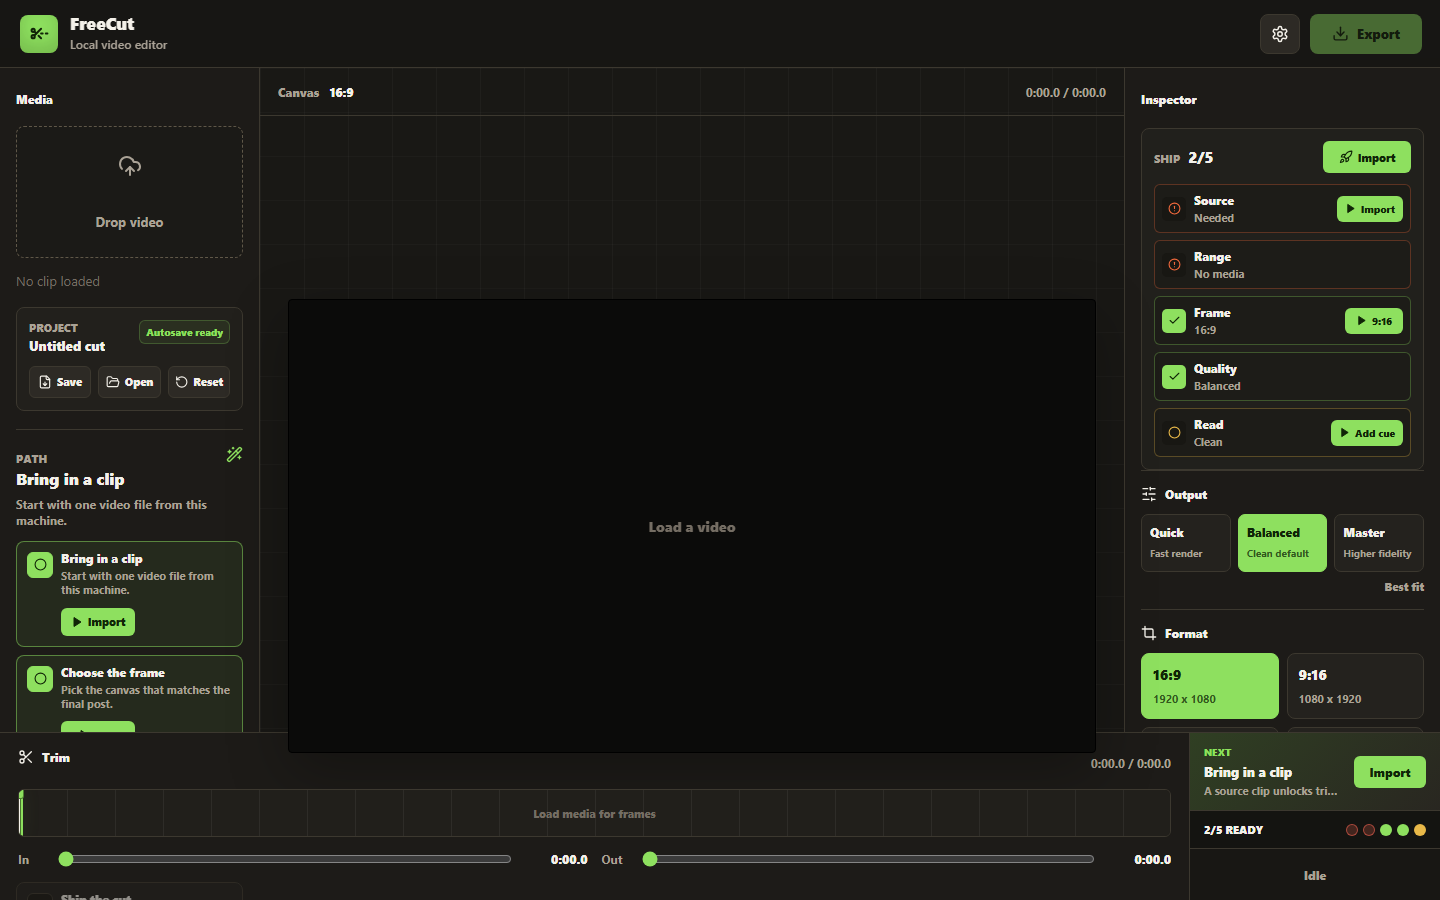
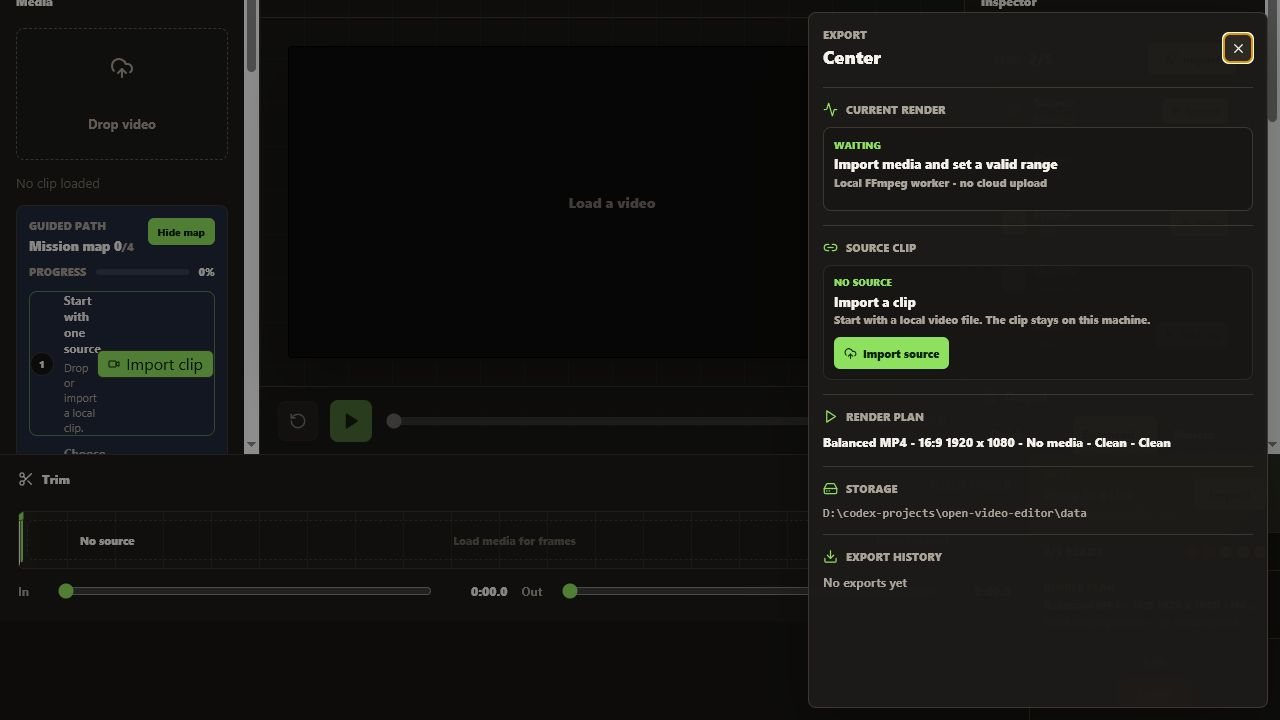
polish: tighten export center accessibility

diff --git a/src/App.tsx b/src/App.tsx
@@ -464,6 +464,13 @@ function App() {
     }
   };
 
+  const handleRejectMediaFile = (rejectedFile: File) => {
+    setProjectStatus('Import failed');
+    setExportState('error');
+    setExportProgress(0);
+    setExportMessage(`Unsupported file - choose a video file to import. ${rejectedFile.name} was not loaded.`);
+  };
+
   const handleLoadedMetadata = () => {
     const nextDuration = videoRef.current?.duration ?? 0;
     const pendingRange = pendingProjectRangeRef.current;
@@ -977,7 +984,7 @@ function App() {
       } else {
         const message = error instanceof Error ? error.message : 'Export failed';
         setExportState('error');
-        setExportMessage(message.startsWith('Export') ? message : `Export failed - ${message}`);
+        setExportMessage(formatExportError(message));
       }
     } finally {
       exportInFlightRef.current = false;
@@ -1010,6 +1017,11 @@ function App() {
     if (job.status === 'complete') return 'Export ready';
     if (job.status === 'canceled') return 'Export canceled';
     return job.error ? `Export failed - ${job.error}` : 'Export failed';
+  };
+
+  const formatExportError = (message: string) => {
+    const normalized = message.startsWith('Export') ? message : `Export failed - ${message}`;
+    return `${normalized}. Retry keeps the clip loaded.`;
   };
 
   const cancelExport = () => {
@@ -1810,6 +1822,7 @@ function App() {
           file={file}
           inputRef={mediaInputRef}
           projectMediaName={projectMediaName}
+          onRejectFile={handleRejectMediaFile}
           onSelectFile={handleSelectFile}
           onRequestMedia={requestMedia}
         >

diff --git a/src/components/ExportCenter.tsx b/src/components/ExportCenter.tsx
@@ -107,7 +107,8 @@ export function ExportCenter({
       <aside
         ref={panelRef}
         className="export-center-panel"
-        aria-label="Export Center"
+        aria-describedby="export-center-description"
+        aria-labelledby="export-center-title"
         aria-modal="true"
         role="dialog"
         tabIndex={-1}
@@ -123,6 +124,12 @@ export function ExportCenter({
             <X size={15} />
           </button>
         </div>
+        <h2 id="export-center-title" className="sr-only">
+          Export Center
+        </h2>
+        <p id="export-center-description" className="sr-only">
+          Review local render progress, source clip status, storage location, and recent export receipts.
+        </p>
 
         <div className="export-center-stack" data-testid="export-center">
           <section className="settings-section">
@@ -130,7 +137,7 @@ export function ExportCenter({
               <Activity size={15} />
               <span>Current render</span>
             </div>
-            <div className={`export-center-current ${exportState}`}>
+            <div className={`export-center-current ${exportState}`} aria-atomic="true" aria-live="polite" role="status">
               <div className="export-center-current-copy">
                 <span>{currentStateLabel}</span>
                 <strong>{currentDetail}</strong>
@@ -190,7 +197,7 @@ export function ExportCenter({
               <Link2 size={15} />
               <span>Source clip</span>
             </div>
-            <div className={`export-center-source ${sourceState.tone}`} data-testid="export-center-source">
+            <div className={`export-center-source ${sourceState.tone}`} aria-atomic="true" aria-live="polite" data-testid="export-center-source">
               <div className="export-center-source-copy">
                 <span>{sourceState.label}</span>
                 <strong>{sourceState.title}</strong>
@@ -290,7 +297,7 @@ function getCurrentStateLabel(
   needsMediaRelink: boolean
 ) {
   if (exportState === 'exporting') return `Rendering ${Math.round(exportProgress)}%`;
-  if (exportState === 'error') return 'Needs retry';
+  if (exportState === 'error') return canExport ? 'Needs retry' : 'Needs attention';
   if (needsMediaRelink) return 'Source needed';
   if (latestExport?.available && latestMatchesCurrent) return 'Ready now';
   if (latestExport?.projectSnapshot && (!latestMatchesCurrent || !latestExport.available)) return 'Route saved';

diff --git a/tests/freecut-import-transition.spec.ts b/tests/freecut-import-transition.spec.ts
@@ -1,4 +1,5 @@
 import { expect, test } from '@playwright/test';
+import { writeFile } from 'node:fs/promises';
 import { createSmokeVideo } from './support/createSmokeVideo';
 
 test('imported clip metadata unlocks FreeCut dock readiness', async ({ page }, testInfo) => {
@@ -90,4 +91,16 @@ test('imported clip metadata unlocks FreeCut dock readiness', async ({ page }, t
 
   expect(pageErrors).toEqual([]);
   expect(consoleErrors).toEqual([]);
+});
+
+test('unsupported media import explains the recovery path', async ({ page }, testInfo) => {
+  const textFilePath = testInfo.outputPath('not-a-video.txt');
+  await writeFile(textFilePath, 'This is not a video file.');
+
+  await page.goto('/', { waitUntil: 'domcontentloaded' });
+  await page.getByTestId('media-import-input').setInputFiles(textFilePath);
+
+  await expect(page.getByTestId('export-status')).toContainText('Unsupported file - choose a video file to import');
+  await expect(page.getByTestId('export-status')).toContainText('not-a-video.txt was not loaded');
+  await expect(page.getByText('No clip loaded')).toBeVisible();
 });

diff --git a/src/styles.css b/src/styles.css
@@ -52,6 +52,16 @@ button {
   color: inherit;
 }
 
+.sr-only {
+  position: absolute;
+  width: 1px;
+  height: 1px;
+  overflow: hidden;
+  clip: rect(0, 0, 0, 0);
+  clip-path: inset(50%);
+  white-space: nowrap;
+}
+
 .app-shell {
   display: grid;
   grid-template-rows: 68px minmax(0, 1fr) 168px;

diff --git a/src/components/SettingsPanel.tsx b/src/components/SettingsPanel.tsx
@@ -65,7 +65,8 @@ export function SettingsPanel({
       <aside
         ref={panelRef}
         className="settings-panel"
-        aria-label="Project settings"
+        aria-describedby="settings-description"
+        aria-labelledby="settings-title"
         aria-modal="true"
         role="dialog"
         tabIndex={-1}
@@ -81,6 +82,12 @@ export function SettingsPanel({
             <X size={15} />
           </button>
         </div>
+        <h2 id="settings-title" className="sr-only">
+          Project settings
+        </h2>
+        <p id="settings-description" className="sr-only">
+          Review local project state, storage, and project file actions.
+        </p>
 
         <div className="settings-stack">
           <section className="settings-section">

diff --git a/src/components/MediaPanel.tsx b/src/components/MediaPanel.tsx
@@ -7,14 +7,17 @@ type MediaPanelProps = {
   inputRef: RefObject<HTMLInputElement | null>;
   projectMediaName: string | null;
   children?: ReactNode;
+  onRejectFile: (file: File) => void;
   onSelectFile: (file: File) => void;
   onRequestMedia: () => void;
 };
 
-export function MediaPanel({ file, inputRef, projectMediaName, children, onSelectFile, onRequestMedia }: MediaPanelProps) {
+export function MediaPanel({ file, inputRef, projectMediaName, children, onRejectFile, onSelectFile, onRequestMedia }: MediaPanelProps) {
   const acceptFile = (candidate: File | undefined) => {
     if (candidate && candidate.type.startsWith('video/')) {
       onSelectFile(candidate);
+    } else if (candidate) {
+      onRejectFile(candidate);
     }
   };
 

diff --git a/docs/index.html b/docs/index.html
@@ -632,6 +632,10 @@
                 <h3>Export Center</h3>
                 <p>Keep render progress, source relink status, filename, size, timestamp, frame, profile, caption plan, live downloads, render-again actions, and route restore after reload in one local panel.</p>
               </article>
+              <article class="feature">
+                <h3>Known limits</h3>
+                <p>Edit one local source clip at a time. Browser storage keeps project settings and receipts, not the original video, and MP4 export needs the local API.</p>
+              </article>
             </div>
           </div>
 

diff --git a/tests/freecut-export-job.spec.ts b/tests/freecut-export-job.spec.ts
@@ -163,6 +163,7 @@ test('export failures offer retry without losing the clip', async ({ page }, tes
 
   await page.getByTestId('next-move').click();
   await expect(page.getByTestId('export-status')).toContainText('Export failed - FFmpeg could not render this clip');
+  await expect(page.getByTestId('export-status')).toContainText('Retry keeps the clip loaded');
   await expect(page.getByRole('button', { name: 'Retry' })).toBeVisible();
   await expect(page.getByTestId('media-clip-name')).toHaveText('freecut-export-smoke.webm');
 });